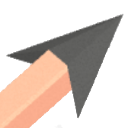
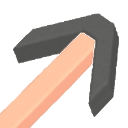
fix arrow tail v shape

diff --git a/html/static/js/diagram_wgl.js b/html/static/js/diagram_wgl.js
@@ -2372,6 +2372,7 @@ class WGL {
 		}
 
 		let sx_2 = e.sx/2 * sx_per/100;
+		let sx = e.sx;
 		let sz_2 = e.sz/2 * sz_per/100;
 		let py_1 = e.sy - e.sy * sy_per/100;
 		let py_2 = e.sy;
@@ -2428,18 +2429,23 @@ class WGL {
 			}
 		}
 		else if(type == "v") {
+			if(istail) {
+				sx_2 = -sx_2;
+				sx = -sx;
+			}
+
 			vertices = [
-				[e.sx/2, py_2, sz_2], [sx_2, py_2-sx_2, sz_2], [sx_2, py_1-sx_2, sz_2], [e.sx/2, py_1, sz_2], 
-				[-e.sx/2, py_1, sz_2], [-sx_2, py_1-sx_2, sz_2], [-sx_2, py_2-sx_2, sz_2], [-e.sx/2, py_2, sz_2],
+				[sx/2, py_2, sz_2], [sx_2, py_2-sx_2, sz_2], [sx_2, py_1-sx_2, sz_2], [sx/2, py_1, sz_2], 
+				[-sx/2, py_1, sz_2], [-sx_2, py_1-sx_2, sz_2], [-sx_2, py_2-sx_2, sz_2], [-sx/2, py_2, sz_2],
 
-				[e.sx/2+r*.5, py_2+r*.5, sz_2-r], [sx_2+r, py_2-sx_2, sz_2-r], [sx_2+r, py_1-sx_2-r*3, sz_2-r], [e.sx/2-r*.7, py_1-r*.7, sz_2-r], 
-				[-e.sx/2+r*.7, py_1-r*.7, sz_2-r], [-sx_2-r, py_1-sx_2-r*3, sz_2-r], [-sx_2-r, py_2-sx_2, sz_2-r], [-e.sx/2-r*.5, py_2+r*.5, sz_2-r],
+				[sx/2+r*.5, py_2+r*.5, sz_2-r], [sx_2+r, py_2-sx_2, sz_2-r], [sx_2+r, py_1-sx_2-r*3, sz_2-r], [sx/2-r*.7, py_1-r*.7, sz_2-r], 
+				[-sx/2+r*.7, py_1-r*.7, sz_2-r], [-sx_2-r, py_1-sx_2-r*3, sz_2-r], [-sx_2-r, py_2-sx_2, sz_2-r], [-sx/2-r*.5, py_2+r*.5, sz_2-r],
 
-				[e.sx/2+r*.5, py_2+r*.5, -sz_2+r], [sx_2+r, py_2-sx_2, -sz_2+r], [sx_2+r, py_1-sx_2-r*3, -sz_2+r], [e.sx/2-r*.7, py_1-r*.7, -sz_2+r], 
-				[-e.sx/2+r*.7, py_1-r*.7, -sz_2+r], [-sx_2-r, py_1-sx_2-r*3, -sz_2+r], [-sx_2-r, py_2-sx_2, -sz_2+r], [-e.sx/2-r*.5, py_2+r*.5, -sz_2+r],
+				[sx/2+r*.5, py_2+r*.5, -sz_2+r], [sx_2+r, py_2-sx_2, -sz_2+r], [sx_2+r, py_1-sx_2-r*3, -sz_2+r], [sx/2-r*.7, py_1-r*.7, -sz_2+r], 
+				[-sx/2+r*.7, py_1-r*.7, -sz_2+r], [-sx_2-r, py_1-sx_2-r*3, -sz_2+r], [-sx_2-r, py_2-sx_2, -sz_2+r], [-sx/2-r*.5, py_2+r*.5, -sz_2+r],
 
-				[e.sx/2, py_2, -sz_2], [sx_2, py_2-sx_2, -sz_2], [sx_2, py_1-sx_2, -sz_2], [e.sx/2, py_1, -sz_2],
-				[-e.sx/2, py_1, -sz_2], [-sx_2, py_1-sx_2, -sz_2], [-sx_2, py_2-sx_2, -sz_2], [-e.sx/2, py_2, -sz_2],
+				[sx/2, py_2, -sz_2], [sx_2, py_2-sx_2, -sz_2], [sx_2, py_1-sx_2, -sz_2], [sx/2, py_1, -sz_2],
+				[-sx/2, py_1, -sz_2], [-sx_2, py_1-sx_2, -sz_2], [-sx_2, py_2-sx_2, -sz_2], [-sx/2, py_2, -sz_2],
 			];
 			faces = [
 				[0,2,1], [0,3,2], [0,4,3], [0,7,4], [4,6,5], [4,7,6],
@@ -2453,10 +2459,22 @@ class WGL {
 			}
 
 			for(let x = 0; x < faces.length; x++) {
-				if(x > 5)
-					fvuv.push([[vertices[faces[x][0]][0],vertices[faces[x][0]][2]], [vertices[faces[x][1]][0],vertices[faces[x][1]][2]], [vertices[faces[x][2]][0],vertices[faces[x][2]][2]]]);
-				else
+				if(x < 12)
 					fvuv.push([[vertices[faces[x][0]][0],vertices[faces[x][0]][1]], [vertices[faces[x][1]][0],vertices[faces[x][1]][1]], [vertices[faces[x][2]][0],vertices[faces[x][2]][1]]]);
+				else if( (((x-12)%16) == 2) || (((x-12)%16) == 3) || (((x-12)%16) == 10) || (((x-12)%16) == 11))
+					fvuv.push([[vertices[faces[x][0]][1],vertices[faces[x][0]][2]], [vertices[faces[x][1]][1],vertices[faces[x][1]][2]], [vertices[faces[x][2]][1],vertices[faces[x][2]][2]]]);
+				else
+					fvuv.push([[vertices[faces[x][0]][0],vertices[faces[x][0]][2]], [vertices[faces[x][1]][0],vertices[faces[x][1]][2]], [vertices[faces[x][2]][0],vertices[faces[x][2]][2]]]);
+			}
+			if(istail) {
+				for(let x = 0; x < faces.length; x++) {
+					let temp = faces[x][1];
+					faces[x][1] = faces[x][2];
+					faces[x][2] = temp;
+					temp = fvuv[x][1];
+					fvuv[x][1] = fvuv[x][2];
+					fvuv[x][2] = temp;
+				}
 			}
 		}
 		else if(type == "p") {
